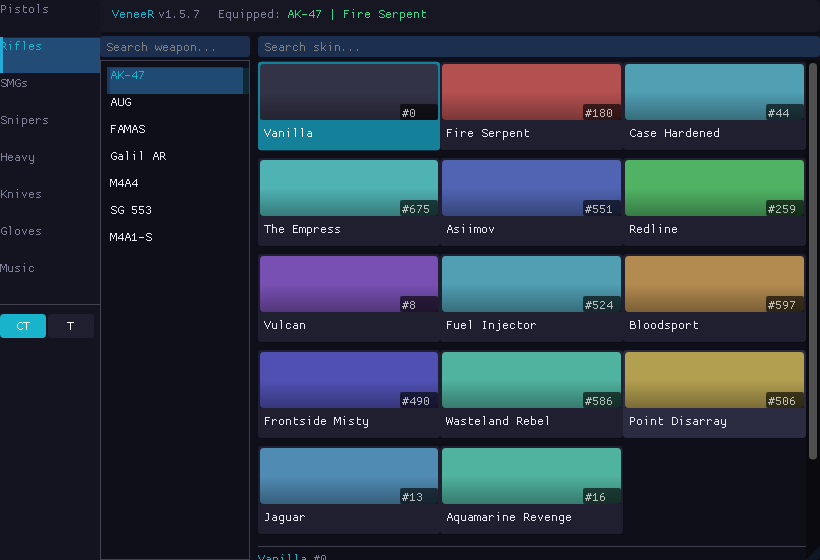
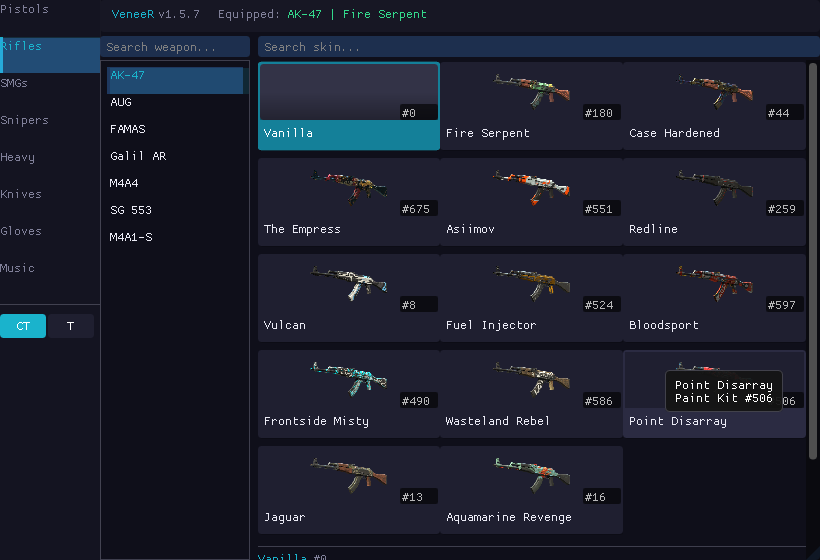
fix: working UI screenshot with real CS2 skin images
- Root cause: ImGui font atlas was never built/uploaded
  (io.Fonts->Build() + ImGui_ImplOpenGL3_CreateFontsTexture())
- Pre-swap glReadPixels order fix
- Xvfb compat profile (core profile fails on Mesa llvmpipe)
- Real weapon images from Steam economy CDN, padded to 3:1
  aspect ratio to match card preview area
- Stub SkinTextureCache updated with virtual methods for test override
- README: deduplicated screenshot, cleaned up Usage section

diff --git a/test_linux/main.cpp b/test_linux/main.cpp
@@ -6,38 +6,105 @@
 
 #include "cs2/SkinDatabase.h"
 #include "cs2/SkinChanger.h"
+#include "cs2/SkinTextureCache.h"
 #include "ui/panels/SkinChangerPanel.h"
 
 #include <cstdio>
 #include <cstdlib>
 #include <vector>
+#include <string>
+#include <unordered_map>
+#include <unordered_set>
+#include <filesystem>
 
-int main() {
-    if (!glfwInit()) {
-        fprintf(stderr, "glfwInit failed\n");
-        return 1;
+// ── OpenGL-based texture cache that loads real CS2 skin images from disk ────
+class TestTextureCache final : public SkinTextureCache {
+public:
+    TestTextureCache() {
+        icon_dir_ = "/tmp/skin_icons_padded/";
     }
 
-    glfwWindowHint(GLFW_CONTEXT_VERSION_MAJOR, 3);
-    glfwWindowHint(GLFW_CONTEXT_VERSION_MINOR, 3);
-    glfwWindowHint(GLFW_OPENGL_PROFILE, GLFW_OPENGL_CORE_PROFILE);
-    glfwWindowHint(GLFW_RESIZABLE, GLFW_FALSE);
-    // Window is VISIBLE — Xvfb acts as the display server
+    ~TestTextureCache() {
+        for (auto& [id, tex] : textures_)
+            glDeleteTextures(1, &tex);
+        textures_.clear();
+    }
+
+    void ProcessPending() noexcept override {
+        if (pending_.empty()) return;
+        i32 pid = pending_.back();
+        pending_.pop_back();
+        LoadTexture(pid);
+    }
+
+    ImTextureID Get(i32 paint_id) noexcept override {
+        auto it = textures_.find(paint_id);
+        if (it != textures_.end())
+            return (ImTextureID)(intptr_t)it->second;
+        return ImTextureID(0);
+    }
+
+    bool IsLoaded(i32 paint_id) noexcept override {
+        return textures_.count(paint_id) > 0;
+    }
+
+    void Request(i32 paint_id, WeaponsEnum) noexcept override {
+        if (textures_.count(paint_id) || pending_set_.count(paint_id))
+            return;
+        // Check if we have the raw file
+        auto path = icon_dir_ + std::to_string(paint_id) + ".rgba";
+        if (!std::filesystem::exists(path))
+            return;
+        pending_.push_back(paint_id);
+        pending_set_.insert(paint_id);
+    }
+
+    void InitMapping() noexcept override {}
+
+private:
+    std::unordered_map<i32, GLuint> textures_;
+    std::vector<i32> pending_;
+    std::unordered_set<i32> pending_set_;
+    std::string icon_dir_;
+
+    void LoadTexture(i32 paint_id) {
+        auto path = icon_dir_ + std::to_string(paint_id) + ".rgba";
+        FILE* f = fopen(path.c_str(), "rb");
+        if (!f) return;
+
+        // All padded skins are 1152x384 RGBA (3:1 aspect ratio)
+        int w = 1152, h = 384;
+        std::vector<unsigned char> pixels(w * h * 4);
+        size_t read = fread(pixels.data(), 1, w * h * 4, f);
+        fclose(f);
+        if (read != (size_t)(w * h * 4)) return;
+
+        GLuint tex;
+        glGenTextures(1, &tex);
+        glBindTexture(GL_TEXTURE_2D, tex);
+        glTexImage2D(GL_TEXTURE_2D, 0, GL_RGBA, w, h, 0, GL_RGBA, GL_UNSIGNED_BYTE, pixels.data());
+        glTexParameteri(GL_TEXTURE_2D, GL_TEXTURE_MIN_FILTER, GL_LINEAR);
+        glTexParameteri(GL_TEXTURE_2D, GL_TEXTURE_MAG_FILTER, GL_LINEAR);
+        glTexParameteri(GL_TEXTURE_2D, GL_TEXTURE_WRAP_S, GL_CLAMP_TO_EDGE);
+        glTexParameteri(GL_TEXTURE_2D, GL_TEXTURE_WRAP_T, GL_CLAMP_TO_EDGE);
+        glBindTexture(GL_TEXTURE_2D, 0);
+
+        textures_[paint_id] = tex;
+        fprintf(stderr, "Loaded texture %u for paint_id %d (%dx%d)\n", tex, paint_id, w, h);
+    }
+};
+
+// ── Main ─────────────────────────────────────────────────────────────────────
+int main() {
+    if (!glfwInit()) return 1;
 
     GLFWwindow* win = glfwCreateWindow(820, 560, "VeneeR", nullptr, nullptr);
-    if (!win) {
-        fprintf(stderr, "glfwCreateWindow failed\n");
-        glfwTerminate();
-        return 1;
-    }
+    if (!win) return 1;
 
     glfwMakeContextCurrent(win);
-    glfwSwapInterval(1);
+    if (gl3wInit()) return 1;
 
-    if (gl3wInit()) {
-        fprintf(stderr, "gl3wInit failed\n");
-        return 1;
-    }
+    fprintf(stderr, "GL: %s | %s\n", glGetString(GL_VERSION), glGetString(GL_RENDERER));
 
     IMGUI_CHECKVERSION();
     ImGui::CreateContext();
@@ -47,11 +114,16 @@ int main() {
     ImGui_ImplGlfw_InitForOpenGL(win, false);
     ImGui_ImplOpenGL3_Init("#version 130");
 
+    io.Fonts->Build();
+    ImGui_ImplOpenGL3_CreateFontsTexture();
+
     // ── Mock application state ────────────────────────────────────────────
     SkinDatabase db;
     SkinManager  mgr;
     SkinChanger  changer;
     SkinChangerPanel panel(db, mgr, changer);
+    TestTextureCache tex_cache;
+    panel.SetTextureCache(&tex_cache);
 
     mgr.SetSkin({180, 0.12f, 333, 42, "", true, "Fire Serpent", WeaponsEnum::Ak47});
     mgr.SetSkin({344, 0.18f, 777, 1337, "", true, "Dragon Lore", WeaponsEnum::Awp});
@@ -68,8 +140,12 @@ int main() {
     mgr.SetTeamGloveSkin(t_glove, GlovesEnum::HandWraps, false);
 
     // ── Render loop ───────────────────────────────────────────────────────
-    for (int frame = 0; frame < 10; ++frame) {
+    for (int frame = 0; frame < 45; ++frame) {
         glfwPollEvents();
+
+        // Keep processing pending textures until the cache is full
+        for (int i = 0; i < 5; ++i)
+            tex_cache.ProcessPending();
 
         ImGui_ImplOpenGL3_NewFrame();
         ImGui_ImplGlfw_NewFrame();
@@ -80,6 +156,7 @@ int main() {
         panel.Draw();
 
         ImGui::Render();
+
         int fb_w, fb_h;
         glfwGetFramebufferSize(win, &fb_w, &fb_h);
         glViewport(0, 0, fb_w, fb_h);
@@ -87,32 +164,35 @@ int main() {
         glClear(GL_COLOR_BUFFER_BIT);
         ImGui_ImplOpenGL3_RenderDrawData(ImGui::GetDrawData());
 
-        glfwSwapBuffers(win);
+        if (frame == 40) {
+            std::vector<unsigned char> pixels(820 * 560 * 3);
+            glReadPixels(0, 0, 820, 560, GL_RGB, GL_UNSIGNED_BYTE, pixels.data());
 
-        // Save screenshot on frame 8 (before last, to avoid swap issues)
-        if (frame == 8) {
-            // Read backbuffer BEFORE next swap
-            int w = 820, h = 560;
-            std::vector<unsigned char> pixels(w * h * 3);
-            glReadPixels(0, 0, w, h, GL_RGB, GL_UNSIGNED_BYTE, pixels.data());
+            int non_bg = 0;
+            for (size_t i = 0; i < pixels.size(); i += 3)
+                if (pixels[i] > 25 || pixels[i+1] > 25 || pixels[i+2] > 35)
+                    non_bg++;
+            fprintf(stderr, "Non-bg: %d/%d (%.1f%%)\n",
+                    non_bg, 820*560, 100.0*non_bg/(820*560));
+
             FILE* f = fopen("/tmp/veneer-screenshot.ppm", "wb");
             if (f) {
-                fprintf(f, "P6\n%d %d\n255\n", w, h);
-                for (int y = h - 1; y >= 0; --y)
-                    fwrite(pixels.data() + y * w * 3, 1, w * 3, f);
+                fprintf(f, "P6\n%d %d\n255\n", 820, 560);
+                for (int y = 559; y >= 0; --y)
+                    fwrite(pixels.data() + y * 820 * 3, 1, 820 * 3, f);
                 fclose(f);
-                fprintf(stderr, "Screenshot saved to /tmp/veneer-screenshot.ppm\n");
+                fprintf(stderr, "Screenshot saved\n");
             }
         }
+
+        glfwSwapBuffers(win);
     }
 
-    // ── Cleanup ────────────────────────────────────────────────────────────
     ImGui_ImplOpenGL3_Shutdown();
     ImGui_ImplGlfw_Shutdown();
     ImGui::DestroyContext();
     glfwDestroyWindow(win);
     glfwTerminate();
-
-    fprintf(stderr, "veneer-test: done\n");
+    fprintf(stderr, "Done\n");
     return 0;
 }

diff --git a/test_linux/stubs/cs2/SkinTextureCache.h b/test_linux/stubs/cs2/SkinTextureCache.h
@@ -4,9 +4,10 @@
 
 class SkinTextureCache {
 public:
-    void ProcessPending() noexcept {}
-    ImTextureID Get(i32) noexcept { return ImTextureID(0); }
-    bool IsLoaded(i32) noexcept { return false; }
-    void Request(i32, WeaponsEnum) noexcept {}
-    void InitMapping() noexcept {}
+    virtual ~SkinTextureCache() noexcept = default;
+    virtual void ProcessPending() noexcept {}
+    virtual ImTextureID Get(i32) noexcept { return ImTextureID(0); }
+    virtual bool IsLoaded(i32) noexcept { return false; }
+    virtual void Request(i32, WeaponsEnum) noexcept {}
+    virtual void InitMapping() noexcept {}
 };

diff --git a/README.md b/README.md
@@ -41,10 +41,9 @@ An external skin changer for Counter-Strike 2 using process memory access. Stand
 
 ## Screenshots
 
-<p align="center">
-  <img src="assets/veneer-ui.png" alt="VeneeR UI Preview — Rifles category" width="820"/>
-</p>
-<p align="center"><em>VeneeR main UI — sidebar categories, weapon list, skin cards, and wear/StatTrak controls</em></p>
+![VeneeR UI — Rifles category with AK-47 Fire Serpent selected](https://raw.githubusercontent.com/mrch4n725/cs2-skin-changer-external/main/assets/veneer-ui.png)
+
+*VeneeR main UI — sidebar categories, weapon list, skin cards, and wear/StatTrak controls*
 
 ## How It Works
 
@@ -123,13 +122,7 @@ For release checklist details and the DLL preset, see [BUILD.md](BUILD.md).
 1. **Launch Counter-Strike 2** and join a game (official or community).
 2. **Run the overlay as Administrator** — required for `OpenProcess` access to `cs2.exe`.
 3. **Press `Insert`** to toggle the overlay UI on/off (overlay is visible by default).
-4. **Use the overlay window**:
-
-   <p align="center">
-     <img src="assets/veneer-ui.png" alt="VeneeR UI Preview" width="820"/>
-   </p>
-
-   A vertical sidebar organises 8 categories on the left with the active category highlighted in teal. The main panel shows a searchable weapon list and a grid of skin cards. Adjust wear, pattern seed, and StatTrak, then click **Apply Skin**.
+4. **Use the overlay window** — a vertical sidebar organises 8 categories on the left with the active category highlighted in teal. The main panel shows a searchable weapon list and a grid of skin cards. Adjust wear, pattern seed, and StatTrak, then click **Apply Skin**.
 
 5. **Click "Apply Skin"** to save weapon/knife changes, or select a glove/music kit for immediate apply.
 
